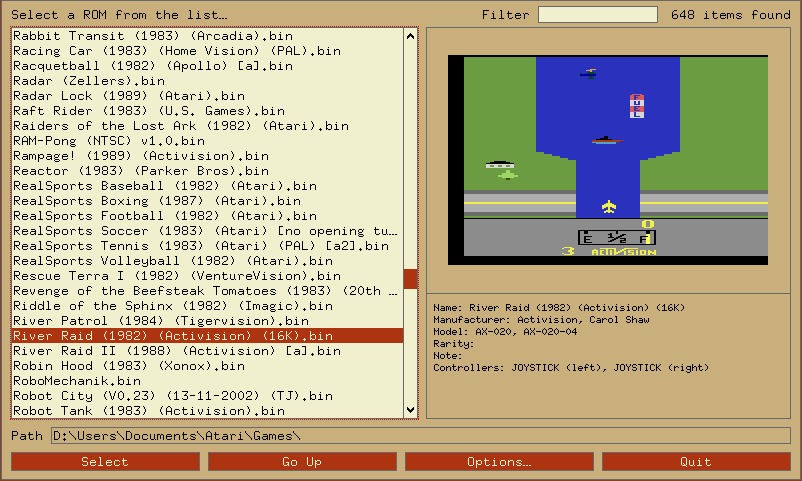
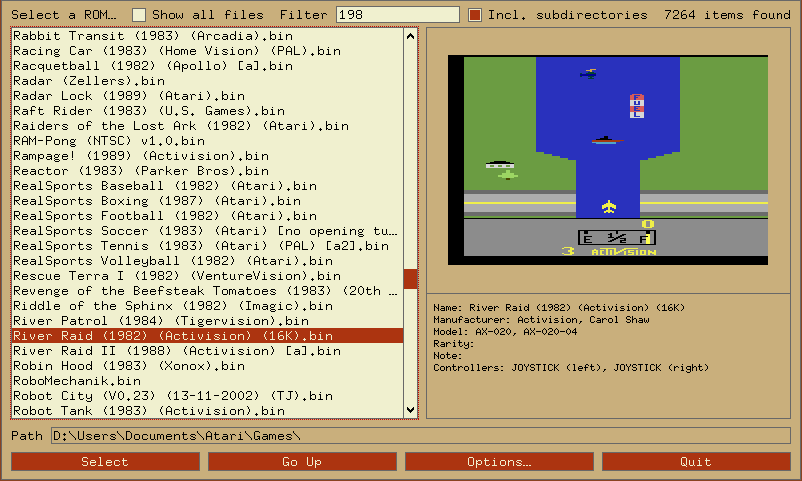
updated docs

diff --git a/docs/index.html b/docs/index.html
@@ -3689,16 +3689,19 @@
   <p>ROM Info Viewer width at 50% , UI sized 1280x900, large launcher font:</p>
   <img src="graphics/rominfo_2x_small.png">
 
-  <p>The text box in the upper right corner can be used to narrow down the
-  results in the ROM listing. When this box is empty, all files are shown
-  (subject to the restrictions from the filtering option, explained below).
+  <p>The 'Show all files' checkbox allows displaying files which do not
+  have a valid ROM extension. The 'Filter' text box can be used to narrow down
+  the results in the ROM listing. When this box is empty, all files are shown.
   Typing characters here will show only those files that match that
   pattern. For example, typing 'Activision' will show only files that
   contain the word 'Activision' in their name. This is very useful for
   quickly finding a group of related ROMs.</p>
-  <p>
-  Note that the search is not case sensitive, so you don't need to worry about
-  capital or lower-case letters. Also you can use '*' and '?' as wildcards.</p>
+  <p>Note that the search is not case sensitive, so you don't need to worry about
+  capital or lower-case letters. Also you can use '*' and '?' as wildcards. E.g.
+  for '(198?)*atari' only games from the 1980s made by Atari will be listed.</p>
+  <p>When there are least three characters in the filter, the checkbox 'Incl.
+  subdirectories' gets enabled. When checked, Stella will search files in all
+  subdirectories too.</p>
 
   <h3><b><a name="ROMLauncherContextMenu">ROM Launcher Context Menu</a></b></h3>
 
@@ -3736,12 +3739,6 @@
     </tr>
   </table>
     </li>
-    <br><li><b>Show only ROM files</b>: Selecting this reloads the current listing,
-    showing only files that have a valid ROM extension.</li>
-
-    <br><li><b>Show all files</b>: Selecting this reloads the current listing,
-    showing <i>all</i> files (with no restriction on file name).</li>
-
     <br><li><b>Reload listing</b>: Selecting this performs a reload of the
     current listing. It is an alternative to pressing the 'Control + r'
     key combo.</li>
